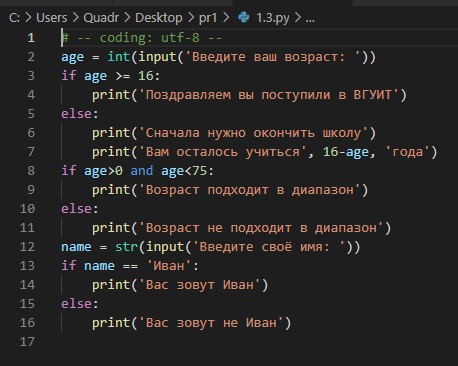
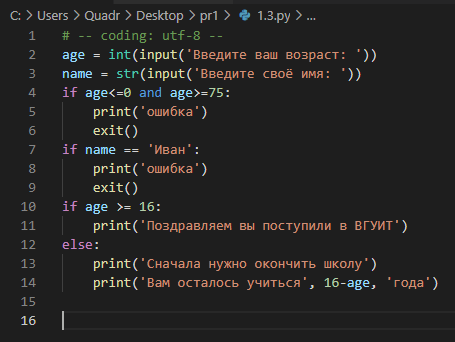
Add files via upload

diff --git a/pr1/1.3.py b/pr1/1.3.py
@@ -1,16 +1,15 @@
 # -- coding: utf-8 --
 age = int(input('Введите ваш возраст: '))
+name = str(input('Введите своё имя: '))
+if age<=0 and age>=75:
+    print('ошибка')
+    exit()
+if name == 'Иван':
+    print('ошибка')
+    exit()
 if age >= 16:
     print('Поздравляем вы поступили в ВГУИТ')
 else:
     print('Сначала нужно окончить школу')
     print('Вам осталось учиться', 16-age, 'года')
-if age>0 and age<75:
-    print('Возраст подходит в диапазон')
-else:
-    print('Возраст не подходит в диапазон')
-name = str(input('Введите своё имя: '))
-if name == 'Иван':
-    print('Вас зовут Иван')
-else:
-    print('Вас зовут не Иван')
+
